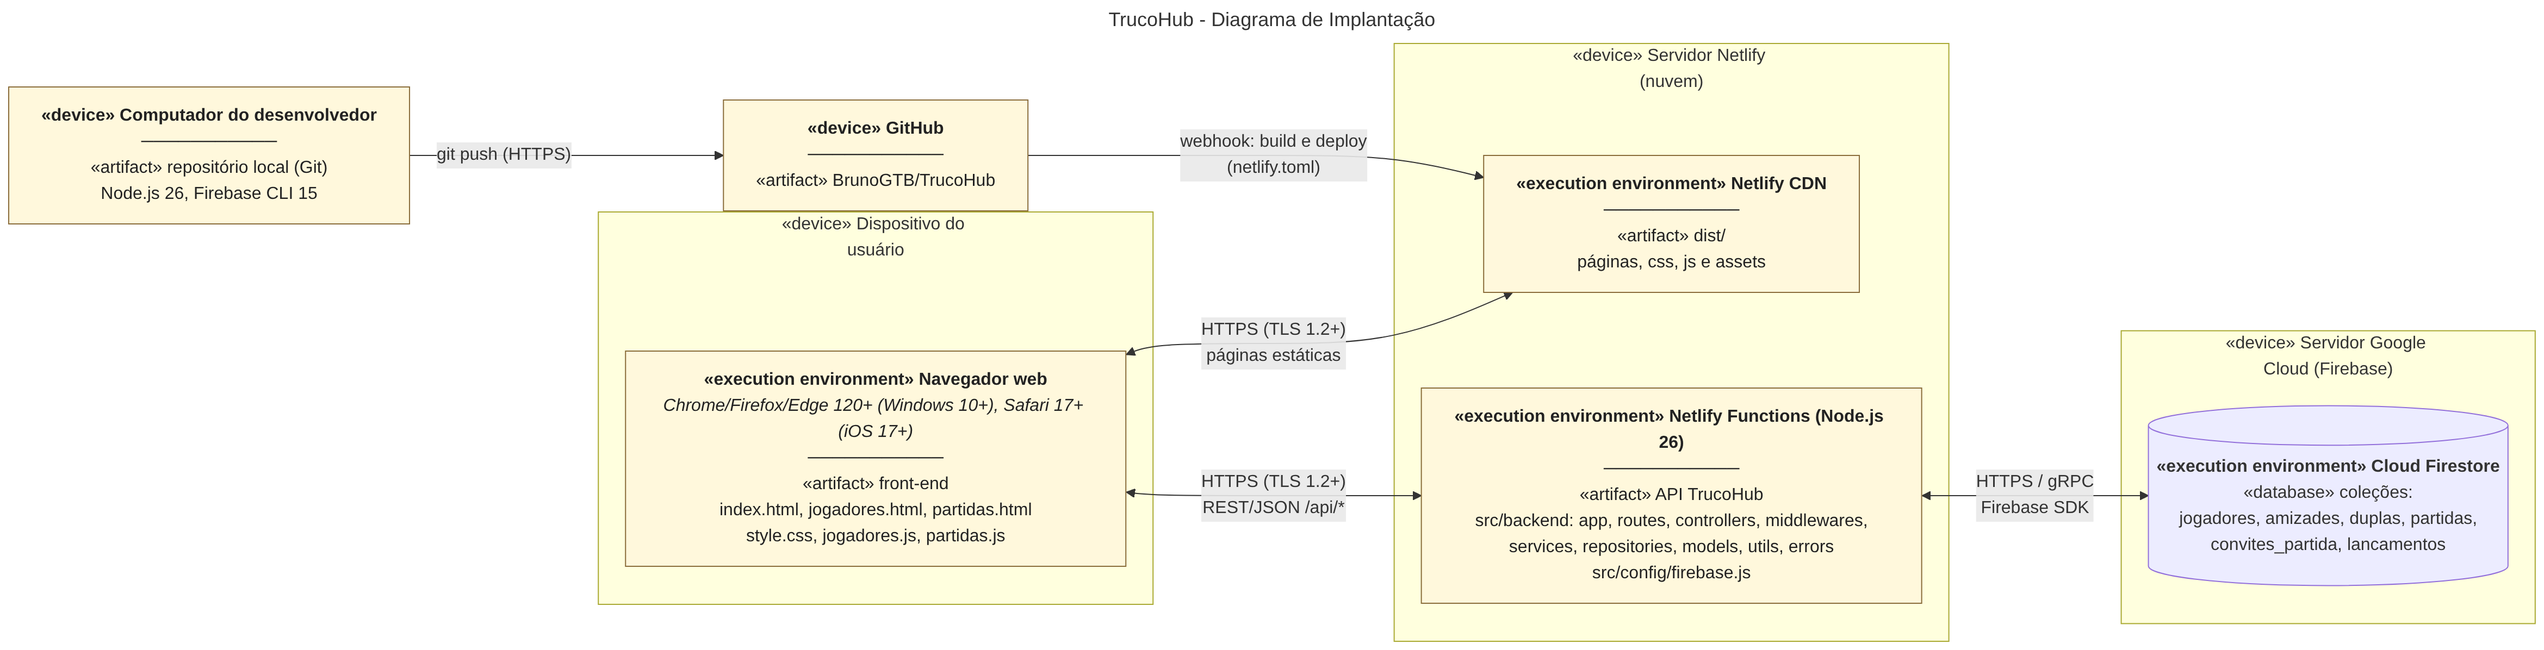
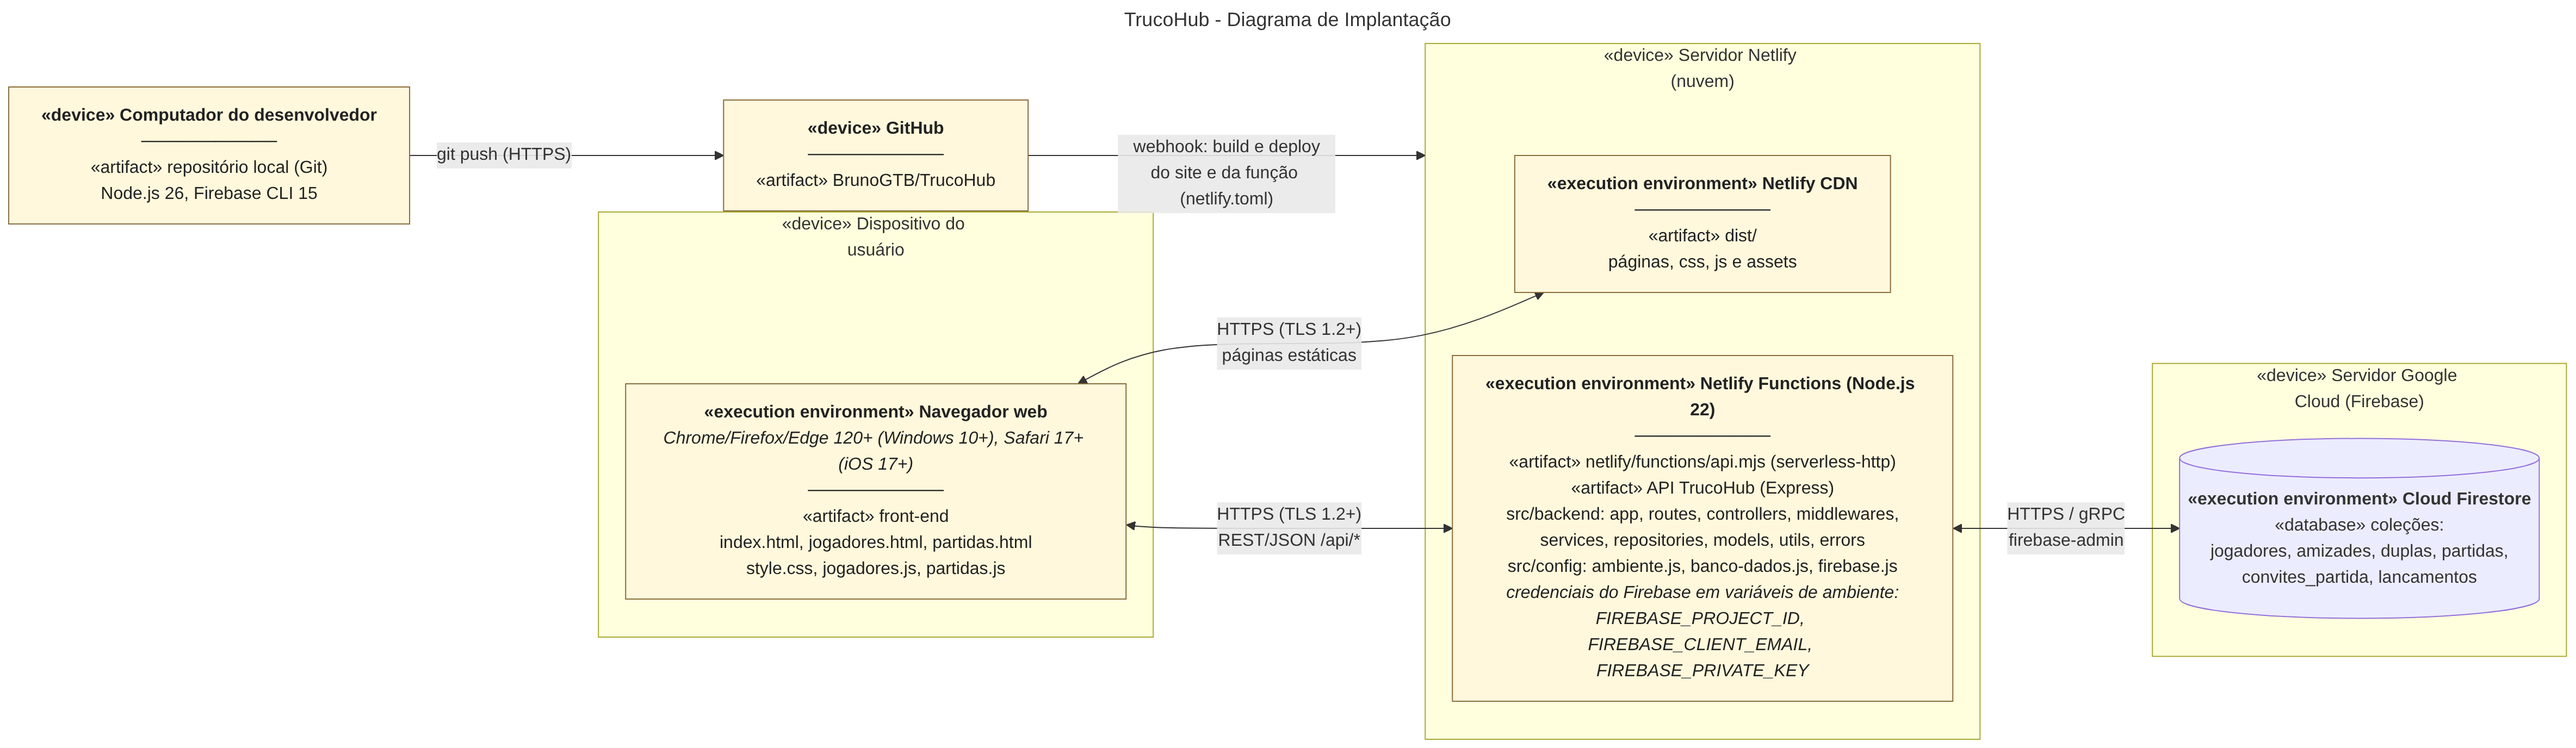
docs(diagramas): atualiza pacotes e implantação com o deploy da API
O deploy da API no Netlify trouxe a pasta netlify/functions, o
banco-dados.js em src/config e o Node 22. O diagrama de pacotes passa
a mostrar as dependências reais entre as pastas, e o de implantação
mostra a função api.mjs, o Node 22 e as variáveis de ambiente do
Firebase.

Changed region(s): [[0.156, 0.0, 0.9987, 0.99], [0.0, 0.2166, 0.1873, 0.3712], [0.0, 0.0928, 0.156, 0.1856]]

diff --git a/docs/diagramas/README.md b/docs/diagramas/README.md
@@ -27,7 +27,7 @@ Diagramas dos itens #19 (classes de domínio e pacotes), #20 (sequência) e #25 
 - **CRUD de 1 tabela:** Jogador (RF002 a RF005). A exclusão é lógica: preenche `data_exclusao`.
 - **CRUD de 3 tabelas:** Partida, com Dupla e Jogador (RF012 a RF015). `convite_partida` aparece como tabela intermediária.
 - **Diagramas de sequência simplificados:** mostram só o fluxo principal, sem `loop` nem `alt`, como pede a sprint.
-- **Implantação:** front-end estático na CDN do Netlify (NF012), API Node.js em Netlify Functions e banco no Cloud Firestore, tudo por HTTPS com TLS 1.2+ (NF009).
+- **Implantação:** front-end estático na CDN do Netlify (NF012), API Node.js 22 em Netlify Functions (`netlify/functions/api.mjs`) e banco no Cloud Firestore, tudo por HTTPS com TLS 1.2+ (NF009).
 
 <a id="01-classes-dominio"></a>
 
@@ -205,6 +205,7 @@ flowchart TB
             CSS["📁 css<br/><i>estilos</i><br/>style.css, jogadores.css"]
         end
         ASSETS["📁 public/assets<br/><i>ícones e imagens</i>"]
+        NETFN["📁 netlify/functions<br/>api.mjs<br/><i>roda o app Express no Netlify (serverless-http)</i>"]
         subgraph BACK["📦 src/backend  (back-end)"]
             direction TB
             APP["📄 app.js, server.js<br/><i>monta o Express e injeta as dependências</i>"]
@@ -217,35 +218,45 @@ flowchart TB
             MIDDLE["📁 middlewares<br/>tratar-erros.js"]
             ERRORS["📁 errors<br/>app-error.js"]
         end
-        CONFIG["📁 src/config<br/>firebase.js, ambiente.js"]
+        CONFIG["📁 src/config<br/>ambiente.js, banco-dados.js, firebase.js"]
         TESTS["📁 tests<br/>unit, e2e"]
     end
-    FIREBASE[["📦 Firebase SDK<br/><i>biblioteca externa</i>"]]
+    FIREBASE[["📦 firebase-admin<br/><i>biblioteca externa</i>"]]
+    EXPRESS[["📦 express, serverless-http<br/><i>bibliotecas externas</i>"]]
 
     PAGES -.->|«use»| JS
     PAGES -.->|«use»| CSS
     PAGES -.->|«use»| ASSETS
     JS -.->|«use» HTTP /api| ROUTES
+    NETFN -.->|«import»| APP
+    NETFN -.->|«import»| CONFIG
+    NETFN -.->|«import»| EXPRESS
     APP -.->|«import»| ROUTES
+    APP -.->|«import»| CTRL
+    APP -.->|«import»| SERV
     APP -.->|«import»| MIDDLE
     APP -.->|«import»| CONFIG
-    ROUTES -.->|«import»| CTRL
-    CTRL -.->|«import»| SERV
-    SERV -.->|«import»| REPO
+    APP -.->|«import»| EXPRESS
+    ROUTES -.->|«use» injetado| CTRL
+    CTRL -.->|«use» injetado| SERV
+    SERV -.->|«use» injetado| REPO
     SERV -.->|«import»| MODELS
     SERV -.->|«import»| UTILS
     SERV -.->|«import»| ERRORS
     MIDDLE -.->|«import»| ERRORS
     REPO -.->|«import»| MODELS
-    REPO -.->|«import»| CONFIG
+    REPO -.->|«import»| FIREBASE
+    CONFIG -.->|«import»| REPO
     CONFIG -.->|«import»| FIREBASE
+    TESTS -.->|«import»| APP
     TESTS -.->|«import»| SERV
     TESTS -.->|«import»| REPO
+    TESTS -.->|«import»| MODELS
 
     classDef pkg fill:#fff8dc,stroke:#8a6d3b,color:#222
     classDef ext fill:#eef3ff,stroke:#3b5998,color:#222
-    class APP,MIDDLE,ERRORS,PAGES,JS,CSS,ASSETS,ROUTES,CTRL,SERV,REPO,MODELS,UTILS,CONFIG,TESTS pkg
-    class FIREBASE ext
+    class NETFN,APP,MIDDLE,ERRORS,PAGES,JS,CSS,ASSETS,ROUTES,CTRL,SERV,REPO,MODELS,UTILS,CONFIG,TESTS pkg
+    class FIREBASE,EXPRESS ext
 ```
 
 <a id="03-seq-cadastrar-jogador"></a>
@@ -721,7 +732,7 @@ flowchart LR
     subgraph NETLIFY["«device» Servidor Netlify (nuvem)"]
         direction TB
         DIST["<b>«execution environment» Netlify CDN</b><br/>───────────<br/>«artifact» dist/<br/>páginas, css, js e assets"]
-        API["<b>«execution environment» Netlify Functions (Node.js 26)</b><br/>───────────<br/>«artifact» API TrucoHub<br/>src/backend: app, routes, controllers, middlewares,<br/>services, repositories, models, utils, errors<br/>src/config/firebase.js"]
+        API["<b>«execution environment» Netlify Functions (Node.js 22)</b><br/>───────────<br/>«artifact» netlify/functions/api.mjs (serverless-http)<br/>«artifact» API TrucoHub (Express)<br/>src/backend: app, routes, controllers, middlewares,<br/>services, repositories, models, utils, errors<br/>src/config: ambiente.js, banco-dados.js, firebase.js<br/><i>credenciais do Firebase em variáveis de ambiente:<br/>FIREBASE_PROJECT_ID, FIREBASE_CLIENT_EMAIL, FIREBASE_PRIVATE_KEY</i>"]
     end
 
     subgraph GOOGLE["«device» Servidor Google Cloud (Firebase)"]
@@ -733,9 +744,9 @@ flowchart LR
 
     FRONTART <-->|"HTTPS (TLS 1.2+)<br/>páginas estáticas"| DIST
     FRONTART <-->|"HTTPS (TLS 1.2+)<br/>REST/JSON /api/*"| API
-    API <-->|"HTTPS / gRPC<br/>Firebase SDK"| DB
+    API <-->|"HTTPS / gRPC<br/>firebase-admin"| DB
     GIT -->|"git push (HTTPS)"| REPO
-    REPO -->|"webhook: build e deploy<br/>(netlify.toml)"| DIST
+    REPO -->|"webhook: build e deploy<br/>do site e da função (netlify.toml)"| NETLIFY
 
     classDef art fill:#fff8dc,stroke:#8a6d3b,color:#222
     class FRONTART,DIST,API,GIT,REPO art
